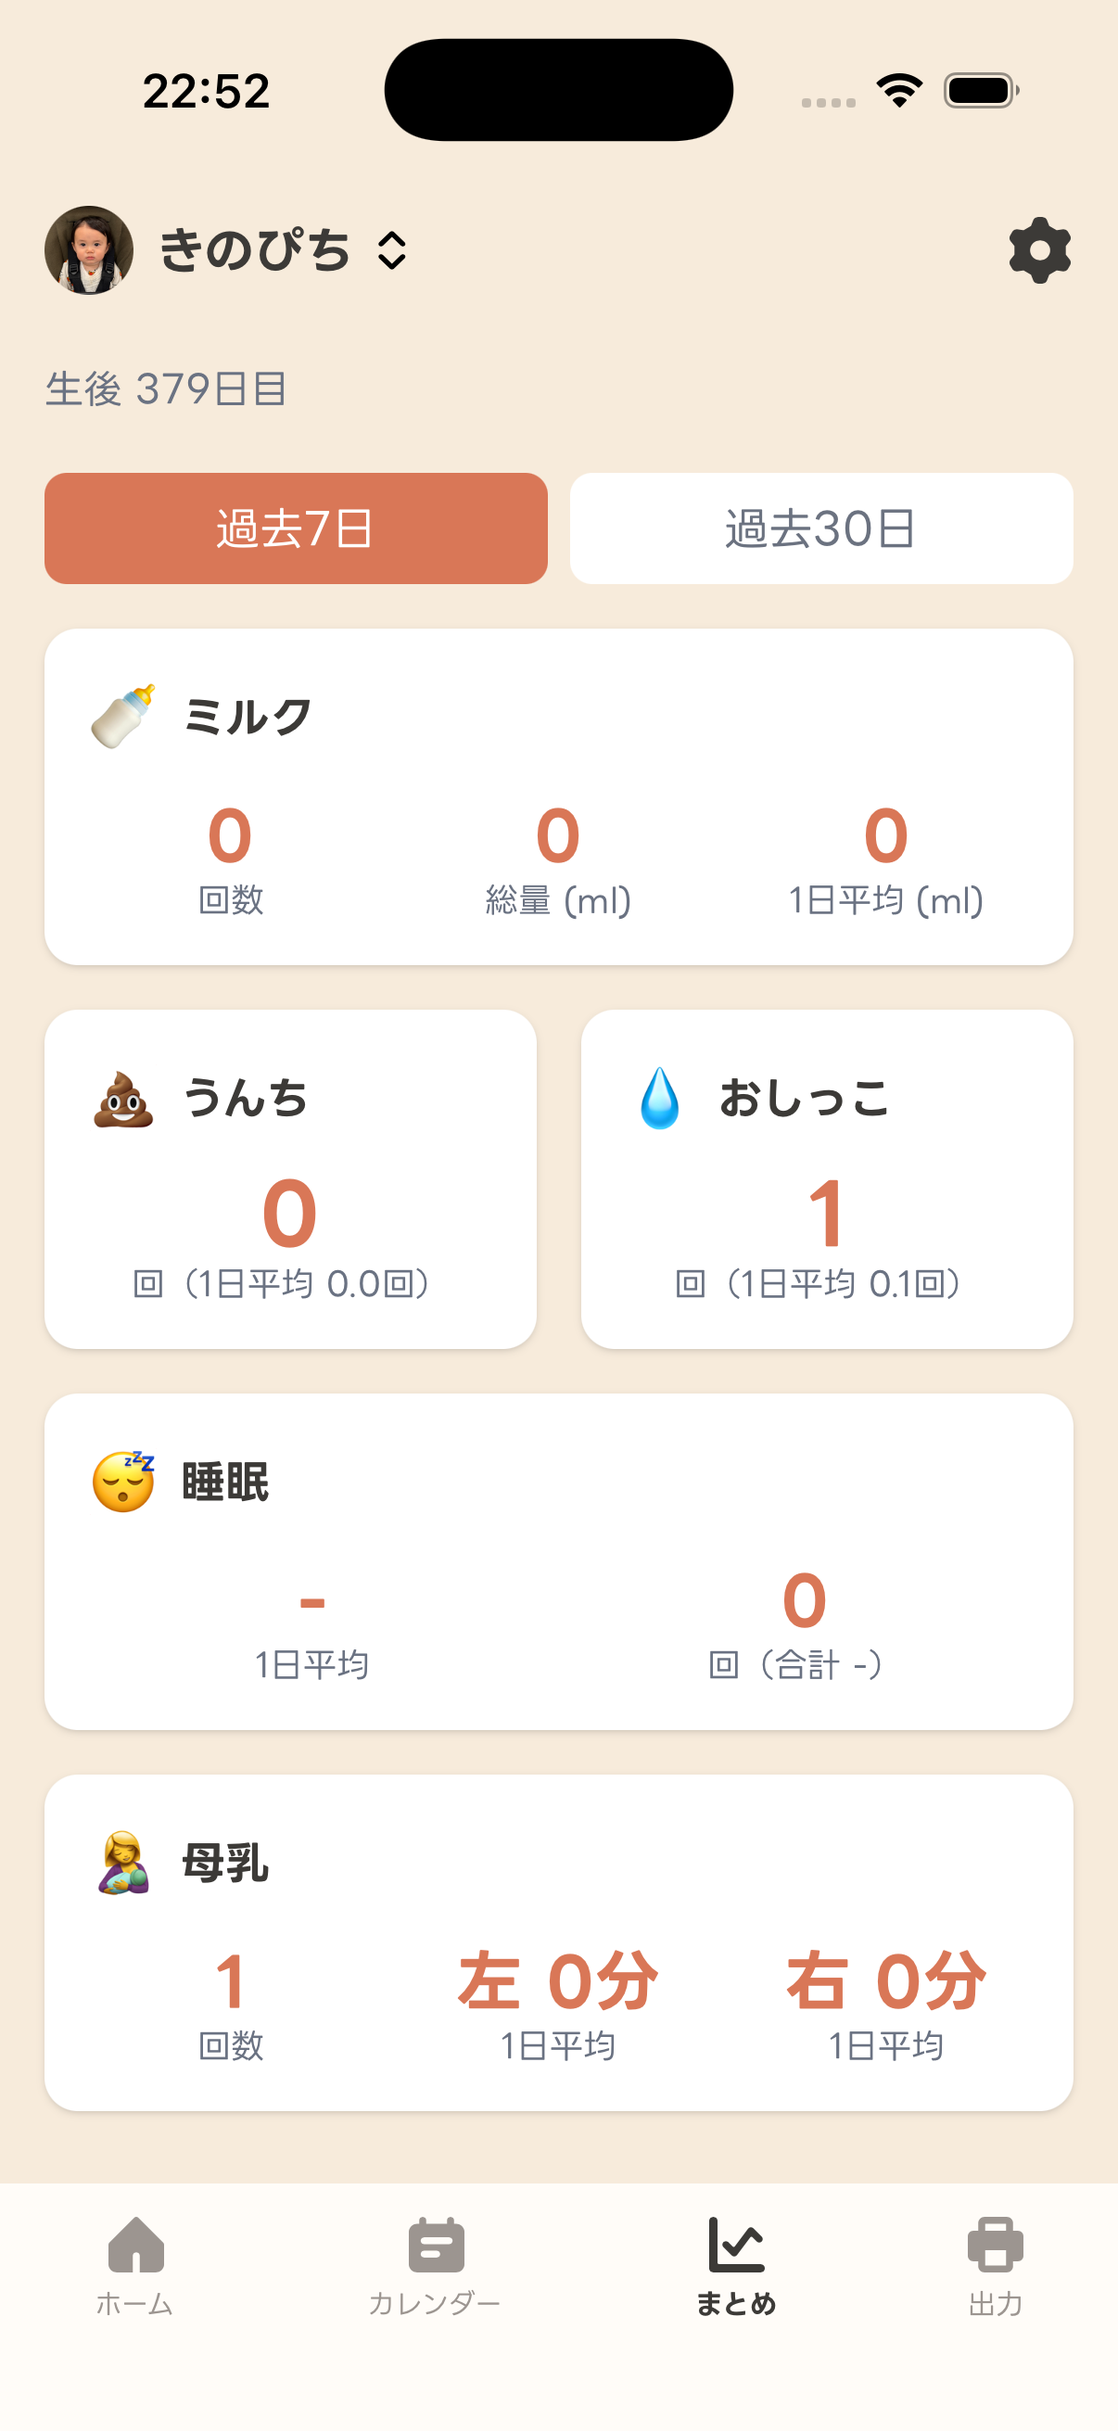
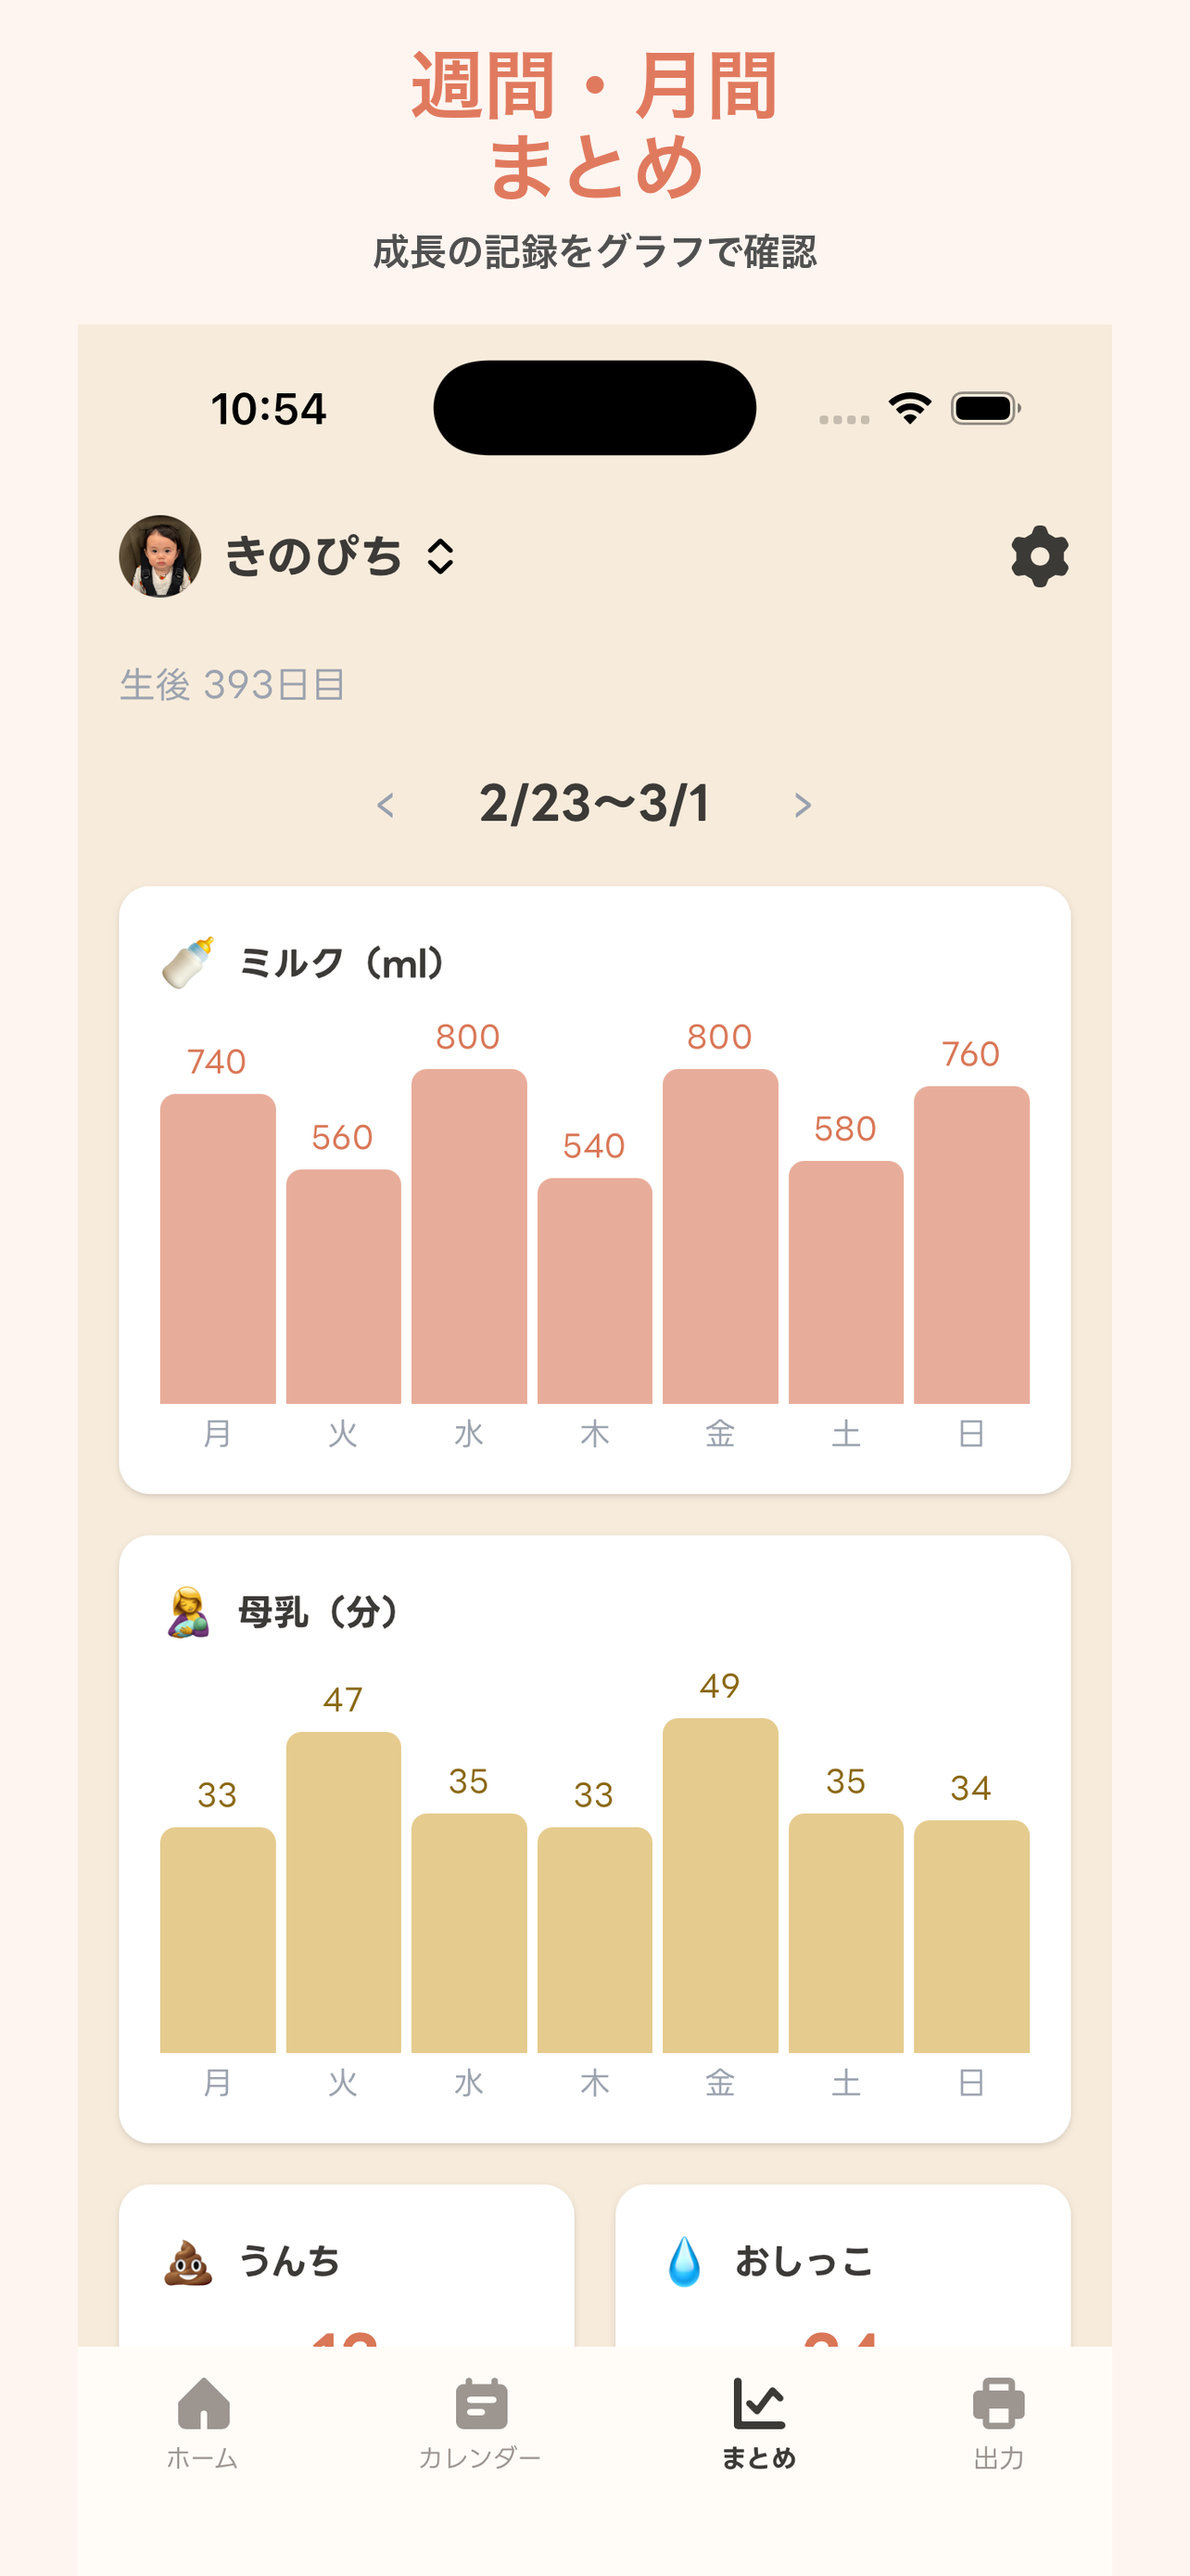
v1.5: Apple Watch対応、まとめスクリーンショット更新

diff --git a/src/app/page.tsx b/src/app/page.tsx
@@ -11,6 +11,7 @@ const features = [
   { icon: "📊", title: "週間・月間まとめ", desc: "記録を自動集計してグラフ表示。授乳回数や睡眠時間の推移がわかる。" },
   { icon: "📝", title: "写真付き日記", desc: "毎日の出来事を写真と一緒に記録。大切な思い出をいつでも振り返れる。" },
   { icon: "📄", title: "PDF出力", desc: "記録と日記をPDFに出力。印刷して成長記録アルバムに残せる。" },
+  { icon: "⌚", title: "Apple Watch対応", desc: "iPhoneを取り出さなくても手首からすぐに記録。ミルク量や体温はDigital Crownで直感的に入力。" },
   { icon: "🌙", title: "ダークモード対応", desc: "夜間の授乳中でもまぶしくない。端末の設定に合わせて自動切り替え。" },
   { icon: "👶", title: "きょうだい管理", desc: "複数のお子さまの記録を1つのアカウントで管理。切り替えもかんたん。" },
 ];
@@ -131,7 +132,7 @@ export default function HomePage() {
       <section className="hero">
         <div className="container hero-content">
           <div className="hero-text">
-            <div className="hero-badge">✨ 無料で使える</div>
+            <div className="hero-badge">⌚ Apple Watch対応！</div>
             <h1>毎日の<span className="hl">成長</span>を<br className="sp-hide" />かんたん記録</h1>
             <p className="hero-desc">授乳・おむつ・睡眠をワンタップで記録。忙しい育児中でもサッと使えます。</p>
             <a href={APP_STORE_URL} className="btn-primary">📱 App Store でダウンロード</a>
